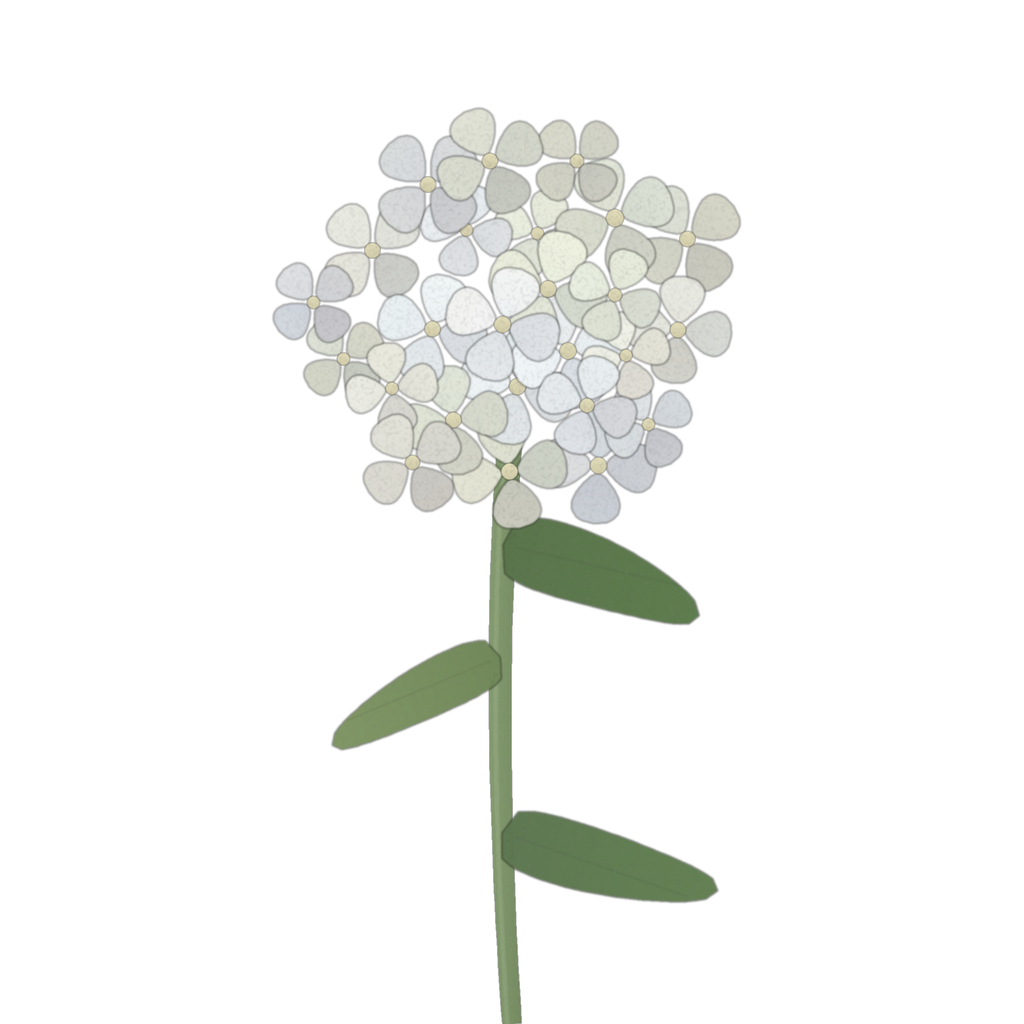
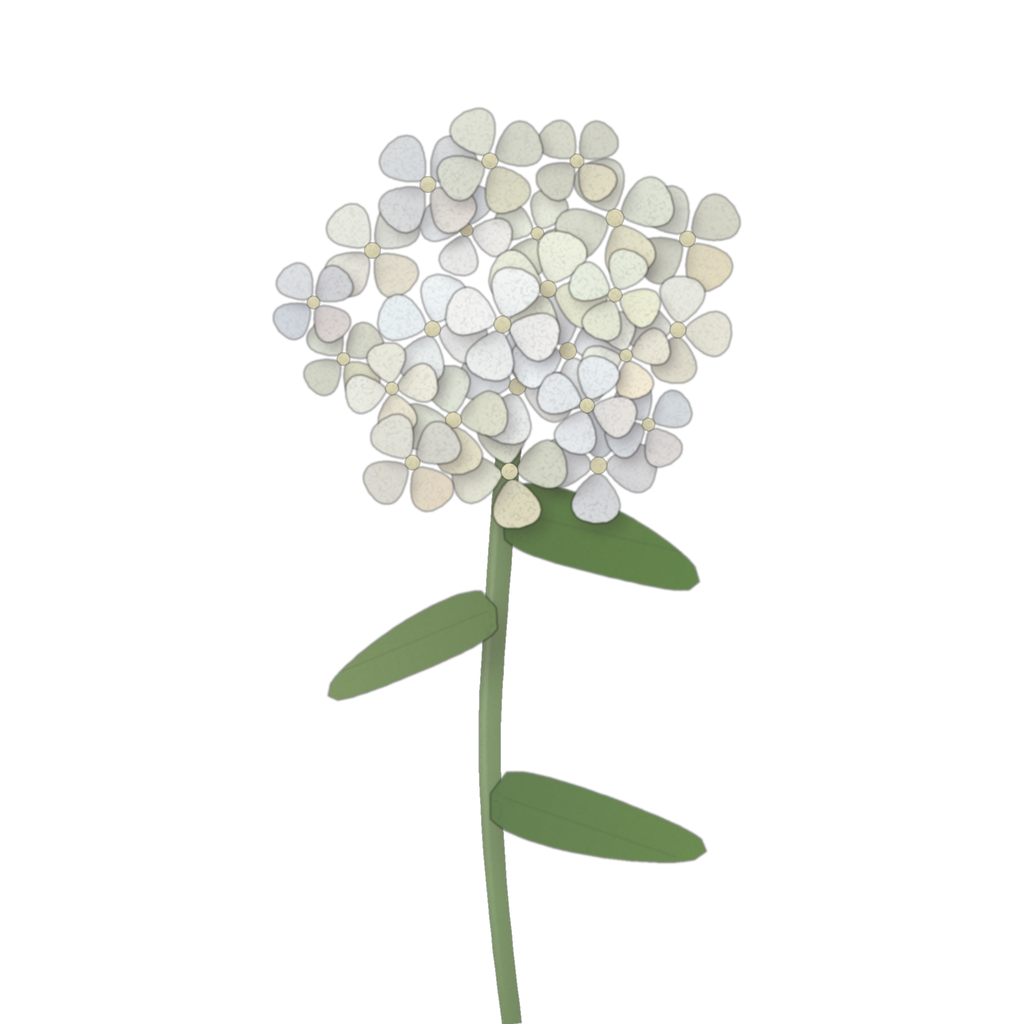
feat: 花びらの透過と重なりの接触影を実装し、茎に反りを与えた
描画は共通処理（paint.py）から直しました。21種すべてに一度に効きます。

■ 花びらの透過 ── 前の版は、ここが逆でした
  いままでの光は lit = cos(角度) だけで、明るさを ±0.1 動かしていました。
  つまり「光が当たっている」の表現で、「光が通っている」の表現がなかった。
  光に背を向けた花びらが、ただ暗くなっていました。実際は逆で、
  向こうから光が抜けて明るく、色が濃くなります。

  through_amount()  光をどれだけ通すか（0〜1）
  translucent()     明るくするのではなく、彩度を上げて暖色へ寄せる
                    （明るくするだけだと白っぽくなり、かえって薄く見える）

  ・先端ほど薄いので、先端ほど強く透ける
  ・光の向こう側の数枚だけ、縁がふっと光る（全部光らせると、また平らになる）
  ・葉は花びらより厚いので、透過を 0.45 に落とした

■ 重なりの接触影 ── 未実装だったもの
  これまで stamp() は単に上へ重ねるだけで、上の花びらが下に影を落として
  いませんでした。だから何枚重ねても「順番」にしか見えず「厚み」に見えない。
  水彩で奥行きを作っているのは花びらの形ではなく、接触部分の影です。

  contact_shadow()  置く直前に、下の層だけを暗くする（背景には落とさない）

  バラの重なりがいちばん変わりました。同心円から、層に見えるようになりました。

■ 茎 ── 「花がどう立っているか」
  まっすぐ立てるのをやめ、ゆるいS字に。下半分でひと方向、上半分で少し戻す。
  光の筋も、まっすぐ引かずに上下で細く消えるようにしました。
  花瓶に挿したとき、三本が別々の反り方をするようになりました。

  切り口（draw_cut_end）は書きましたが、花の絵には使いません。
  仕様では茎が画像の下端で切れる構図で、店でも花瓶の水に隠れるためです。
  「切られた花」を見せるなら、カウンターに残った切り落とし（仕事の痕跡）のほう。
  関数はそのとき使えるよう残してあります。

■ 品質基準を2本に分けた（⑮2章）
  棚（画面幅26%）  3秒で見つけられるか／見間違えないか／シルエットで分かるか
  一輪（画面高55%） あと10秒見ていたいか／目で追いたくなるか／光を感じるか／
                    触れてみたくなるか
  透過も接触影も棚では見えないので、片方の基準では測れません。

■ tools/compare_flowers.py を追加
  同じ構図・同じ倍率で、棚サイズと一輪サイズを並べて残すための道具。
  どの変更がどれだけ効いたかを、あとから比べられます。

  色温度は shade() にすでに実装済みだったので、やることから外しました。
  ゆらぎ・動きは、静止画が良くなるまでいったん止めます。

Claude-Session: https://claude.ai/code/session_01NKV57SwEiDA72EkGzXeu8N

diff --git a/tools/placeholder_art/paint.py b/tools/placeholder_art/paint.py
@@ -57,6 +57,86 @@ def lit_amount(angle: float) -> float:
     return math.cos(math.radians(angle - LIGHT_ANGLE))
 
 
+def through_amount(angle: float) -> float:
+    """
+    その向きが、どれだけ光を「通す」か（0〜1）。
+
+    人は花びらを見ているようで、実は光を見ている。
+    光を正面から受けた面より、**光に背を向けて透けている面**のほうが目を引く。
+
+    前の版はここが逆だった。lit（-1〜1）で明るさを上下させるだけだったので、
+    光の向こう側にある花びらが、ただ暗くなっていた。
+    実際の花では、向こうから光が抜けて、明るく・色が濃くなる。
+    """
+    return max(0.0, -lit_amount(angle)) ** 1.35
+
+
+def translucent(color: RGB, amount: float) -> RGB:
+    """
+    光が透けた花びらの色。
+
+    明るくするだけでは白っぽくなって、かえって薄く見える。
+    **彩度を上げながら、暖色へ寄せる。** 花びらは薄い膜で、
+    通った光がその色に染まって出てくるため。
+    """
+    if amount <= 0:
+        return color
+    r, g, b = color
+    mean = (r + g + b) / 3.0
+    # 彩度を上げる（平均から遠ざける）
+    k = 1.0 + 0.55 * amount
+    r = mean + (r - mean) * k
+    g = mean + (g - mean) * k
+    b = mean + (b - mean) * k
+    # 通ってきた光ぶん、わずかに暖色へ
+    warm = 26 * amount
+    return (max(0, min(255, int(r + warm))),
+            max(0, min(255, int(g + warm * 0.72))),
+            max(0, min(255, int(b + warm * 0.28))))
+
+
+def contact_shadow(layer: Image.Image, mask: Image.Image, x: int, y: int,
+                   angle: float, strength: float = 0.30) -> None:
+    """
+    重なりの、接触影。
+
+    これから置く花びらの影を、**すでに置いてある下の層に**落とす。
+    水彩画で奥行きを作っているのは花びらの形ではなく、この接触部分の影で、
+    これが無いと何枚重ねても「順番」にしか見えず「厚み」に見えない。
+
+    影は光と反対側（右下寄り）へ、ごくわずかにずらす。
+    """
+    if strength <= 0:
+        return
+    # 光と反対の向きへ、花びらの大きさに応じて少しだけ寄せる
+    span = max(mask.size) * 0.055 + 2.0
+    dx = int(round(math.sin(math.radians(LIGHT_ANGLE + 180)) * span))
+    dy = int(round(-math.cos(math.radians(LIGHT_ANGLE + 180)) * span))
+
+    blur = max(1.6, max(mask.size) * 0.045)
+    soft = mask.filter(ImageFilter.GaussianBlur(blur))
+    soft = soft.point(lambda v: int(v * strength))
+
+    # 影のぶんだけ、下の層を暗くする（アルファは触らない）
+    lw, lh = layer.size
+    sw, sh = soft.size
+    px, py = x + dx, y + dy
+    sx0, sy0 = max(0, -px), max(0, -py)
+    dx0, dy0 = max(0, px), max(0, py)
+    dx1, dy1 = min(lw, px + sw), min(lh, py + sh)
+    if dx1 <= dx0 or dy1 <= dy0:
+        return
+
+    box = (dx0, dy0, dx1, dy1)
+    region = layer.crop(box)
+    shadow_mask = soft.crop((sx0, sy0, sx0 + (dx1 - dx0), sy0 + (dy1 - dy0)))
+    # すでに何か描かれているところにだけ落とす（背景には落とさない）
+    shadow_mask = ImageChops.multiply(shadow_mask, region.getchannel("A"))
+    dark = Image.new("RGBA", region.size, (52, 40, 46, 255))
+    region.paste(dark, (0, 0), shadow_mask)
+    layer.paste(region, box)
+
+
 # --------------------------------------------------------------------------
 # 紙・にじみ
 # --------------------------------------------------------------------------
@@ -208,8 +288,14 @@ def tapered_band(path: Sequence[tuple[float, float]], w_start: float,
 def draw_petal(layer: Image.Image, center: tuple[float, float], angle: float,
                length: float, width: float, base: RGB, tip_color: RGB,
                rng: random.Random, tip: float = 0.55, waist: float = 0.62,
-               veins: bool = True, offset: float = 0.0, curl: float = 0.0) -> None:
-    """花びら1枚。angle は12時方向から時計回りの度数。"""
+               veins: bool = True, offset: float = 0.0, curl: float = 0.0,
+               translucency: float = 1.0, shadow: float = 0.30) -> None:
+    """
+    花びら1枚。angle は12時方向から時計回りの度数。
+
+    translucency  光の透けやすさ。厚い花びら（バラの芯など）は下げる。
+    shadow        下の層に落とす接触影の濃さ。0 で落とさない。
+    """
     ox = center[0] + math.sin(math.radians(angle)) * offset
     oy = center[1] - math.cos(math.radians(angle)) * offset
 
@@ -224,11 +310,28 @@ def draw_petal(layer: Image.Image, center: tuple[float, float], angle: float,
     ImageDraw.Draw(mask).polygon(shape, fill=255)
 
     lit = lit_amount(angle)
+    through = through_amount(angle) * translucency
+
     base_c = shade(jitter(base, rng, 5), -0.05 + 0.09 * lit)
     tip_c = shade(jitter(tip_color, rng, 7), 0.04 + 0.13 * lit)
+
+    if through > 0.02:
+        # 光が抜けている花びら。暗くするのではなく、色を濃く・暖かくする。
+        # 先のほうが薄いので、先端ほど強く透ける。
+        base_c = translucent(base_c, through * 0.45)
+        tip_c = translucent(tip_c, through)
+
     grad = linear_gradient(size, tip_c, base_c).rotate(-angle, Image.BILINEAR)
 
     local = _fill_local(size, mask, grad, rng.randint(0, 99999), 2.0, 0.24)
+
+    if through > 0.25 and length > 20:
+        # 縁だけが、ふっと光る。全部の花びらではなく、光の向こう側の数枚だけ。
+        edge = mask.filter(ImageFilter.GaussianBlur(max(1.2, width * 0.10)))
+        edge = ImageChops.subtract(edge, mask.point(lambda v: 255 if v > 200 else 0))
+        edge = edge.point(lambda v: int(v * (through - 0.25) * 1.5))
+        local.paste(Image.new("RGB", size, translucent(tip_c, 1.0)), (0, 0),
+                    ImageChops.multiply(edge, mask))
 
     if veins and length > 24:
         vein = Image.new("L", size, 0)
@@ -246,6 +349,8 @@ def draw_petal(layer: Image.Image, center: tuple[float, float], angle: float,
                                    mask.point(lambda v: 255 if v > 110 else 0))
         local.paste(Image.new("RGB", size, shade(base, -0.34)), (0, 0), vein)
 
+    # 置く前に、下の層へ影を落とす。これが重なりの厚みになる。
+    contact_shadow(layer, mask, int(ox - r), int(oy - r), angle, shadow)
     stamp(layer, local, int(ox - r), int(oy - r))
 
 
@@ -253,9 +358,11 @@ def draw_leaf(layer: Image.Image, center: tuple[float, float], angle: float,
               length: float, width: float, color: RGB, rng: random.Random,
               tip: float = 0.42, curl: float = 0.0) -> None:
     lit = lit_amount(angle)
+    # 葉は花びらより厚い。透けにくく、影はしっかり落ちる。
     draw_petal(layer, center, angle, length, width,
                shade(color, -0.15 + 0.10 * lit), shade(color, 0.09 + 0.12 * lit),
-               rng, tip=tip, waist=0.55, veins=True, curl=curl)
+               rng, tip=tip, waist=0.55, veins=True, curl=curl,
+               translucency=0.45, shadow=0.34)
 
 
 def draw_blob(layer: Image.Image, center: tuple[float, float], rx: float, ry: float,
@@ -292,12 +399,59 @@ def draw_stem(layer: Image.Image, path: Sequence[tuple[float, float]],
     grad = linear_gradient(size, shade(color, 0.16), shade(color, -0.2), horizontal=True)
     local = _fill_local(size, mask, grad, rng.randint(0, 99999), 1.0, 0.2)
 
+    # 光の当たる筋。まっすぐ引かず、上下で細く消える。
+    # 人は花だけでなく「花がどう立っているか」を見ている。
+    # 茎が一本の棒に見えると、そこで生命感が止まる。
     hi = Image.new("L", size, 0)
-    ImageDraw.Draw(hi).line([(x - w_top * 0.24, y) for x, y in local_path],
-                            fill=64, width=max(1, int(w_top * 0.24)))
-    hi = ImageChops.multiply(hi.filter(ImageFilter.GaussianBlur(1.4)), mask)
+    hd = ImageDraw.Draw(hi)
+    n = len(local_path)
+    for i in range(n - 1):
+        t = i / max(1, n - 1)
+        # 端に近いほど薄く（真ん中がいちばん光る）
+        fade = math.sin(math.pi * min(1.0, max(0.0, t))) ** 0.7
+        if fade <= 0.02:
+            continue
+        w_here = w_top + (w_bottom - w_top) * t
+        off = -w_here * 0.26
+        hd.line([(local_path[i][0] + off, local_path[i][1]),
+                 (local_path[i + 1][0] + off, local_path[i + 1][1])],
+                fill=int(78 * fade), width=max(1, int(w_here * 0.22)))
+    hi = ImageChops.multiply(hi.filter(ImageFilter.GaussianBlur(1.6)), mask)
     local.paste(Image.new("RGB", size, shade(color, 0.45)), (0, 0), hi)
     stamp(layer, local, x0, y0)
+
+
+def draw_cut_end(layer: Image.Image, point: tuple[float, float], width: float,
+                 color: RGB, rng: random.Random) -> None:
+    """
+    切り口。
+
+    **花屋の花は、切られている。** そこだけ色が抜けて、水を吸った跡がある。
+
+    ただし花の絵には描かない。仕様では茎が画像の下端で切れる構図で、
+    店でも花瓶の水に隠れてしまうため。これはカウンターに残った
+    切り落とし（＝仕事の痕跡）を描くときに使う。
+    """
+    rx = width * 0.62
+    ry = max(1.5, width * 0.30)
+    r = int(max(rx, ry)) + 5
+    size = (2 * r, 2 * r)
+
+    mask = Image.new("L", size, 0)
+    ImageDraw.Draw(mask).ellipse([r - rx, r - ry, r + rx, r + ry], fill=255)
+
+    # 切り口は、茎より白っぽく、少しだけ黄みがかる
+    face = mix(color, (246, 240, 216), 0.62)
+    local = _fill_local(size, mask, face, rng.randint(0, 99999), 0.9, 0.18)
+
+    # 縁だけ、もとの茎の色が残る
+    rim = Image.new("L", size, 0)
+    ImageDraw.Draw(rim).ellipse([r - rx, r - ry, r + rx, r + ry],
+                                outline=120, width=max(1, int(ry * 0.5)))
+    rim = ImageChops.multiply(rim.filter(ImageFilter.GaussianBlur(0.8)), mask)
+    local.paste(Image.new("RGB", size, shade(color, -0.12)), (0, 0), rim)
+
+    stamp(layer, local, int(point[0] - r), int(point[1] - r))
 
 
 def drop_shadow(layer: Image.Image, blur: float = 13, offset: tuple[int, int] = (9, 13),

diff --git a/tools/compare_flowers.py b/tools/compare_flowers.py
@@ -1,0 +1,68 @@
+"""
+花の絵を、同じ構図・同じ倍率で並べて残すための道具。
+
+描画ルールを変えるたびに、これで撮って `--out` に残す。
+「どの変更が、どれだけ効いたのか」をあとから並べて確かめるための資料になる。
+
+  python3 tools/compare_flowers.py --out /tmp/before
+  （paint.py を直す）
+  python3 tools/compare_flowers.py --out /tmp/after
+
+一輪画面（画面高の55%）で見たときの大きさに合わせて出す。
+"""
+from __future__ import annotations
+
+import argparse
+import os
+
+from PIL import Image
+
+from placeholder_art.flowers import RECIPES, render_flower
+
+# 形のちがう代表。まるい／重なり／カップ／フリル／線／こまかい／葉。
+SAMPLES = [
+    'sunflower',      # まるい・平ら
+    'rose',           # 重なりが深い
+    'tulip',          # カップ
+    'lisianthus',     # フリル
+    'delphinium',     # 線・穂
+    'gypsophila',     # こまかい
+    'eucalyptus',     # 葉
+]
+
+# 一輪画面での見え方に近い高さ（430x932 の 55% を 2倍解像度で）
+DETAIL_H = 1024
+# 棚での見え方（画面幅の26%程度）
+SHELF_H = 260
+
+
+def main() -> None:
+    ap = argparse.ArgumentParser()
+    ap.add_argument('--out', required=True)
+    ap.add_argument('--ids', nargs='*', default=SAMPLES)
+    args = ap.parse_args()
+    os.makedirs(args.out, exist_ok=True)
+
+    for fid in args.ids:
+        recipe = RECIPES[fid]
+        img = render_flower(recipe, seed=7)
+
+        # 一輪画面ぶん
+        detail = img.resize(
+            (round(img.width * DETAIL_H / img.height), DETAIL_H), Image.LANCZOS)
+        on_paper = Image.new('RGB', detail.size, (243, 236, 222))
+        on_paper.paste(detail, (0, 0), detail)
+        on_paper.save(os.path.join(args.out, f'{fid}-detail.png'))
+
+        # 棚ぶん（シルエットで見分けられるかを見る）
+        shelf = img.resize(
+            (round(img.width * SHELF_H / img.height), SHELF_H), Image.LANCZOS)
+        card = Image.new('RGB', shelf.size, (243, 236, 222))
+        card.paste(shelf, (0, 0), shelf)
+        card.save(os.path.join(args.out, f'{fid}-shelf.png'))
+
+    print(f'{len(args.ids)} 種を {args.out} に出しました')
+
+
+if __name__ == '__main__':
+    main()

diff --git a/tools/placeholder_art/flowers.py b/tools/placeholder_art/flowers.py
@@ -549,12 +549,24 @@ def render_flower(recipe: Recipe, seed: int = 0, scale: float = 1.0,
     bx = (base_x if base_x is not None else size[0] / 2) * SS
     r = recipe.head_r * SS * scale
     stem_col = jitter(hex_rgb(recipe.stem), rng, 5)
-    lean = recipe.lean * rng.uniform(0.4, 1.4) * rng.choice((-1, 1)) * SS
+    lean = recipe.lean * rng.uniform(0.6, 1.6) * rng.choice((-1, 1)) * SS
 
-    # 茎（下端から花の中心へ、ゆるやかに反る）
-    path = bezier((bx, h), (bx + lean * 2.2, (h + cy) / 2), (cx, cy + r * 0.42), 46)
+    # 茎。まっすぐには立てない。
+    # 切り花はどれも少し反っていて、その反りが「どう立っているか」を作る。
+    # 下半分でひと方向へ、上半分でわずかに戻す（ゆるいS）。
+    mid_y = (h + cy) / 2
+    lower = bezier((bx, h), (bx + lean * 2.4, mid_y + (h - mid_y) * 0.35),
+                   (bx + lean * 1.6, mid_y), 24)
+    upper = bezier((bx + lean * 1.6, mid_y), (bx + lean * 0.7, (mid_y + cy) / 2),
+                   (cx, cy + r * 0.42), 26)
+    path = lower + upper[1:]
     draw_stem(layer, path, recipe.stem_w[0] * SS * scale, recipe.stem_w[1] * SS * scale,
               stem_col, rng)
+
+    # ここに切り口は描かない。
+    # 仕様では茎は画像の下端で切れる構図（IMAGE_ASSETS.md §1）なので、
+    # 切り口を置いても半分が画面外になり、店では花瓶の水に隠れてしまう。
+    # 「切られた花」を見せるなら、カウンターに残った切り落とし（仕事の痕跡）のほう。
 
     if recipe.leaves and recipe.leaf_style != "none":
         _draw_leaves(layer, recipe, path, rng, scale)

diff --git a/design/15-build-order.md b/design/15-build-order.md
@@ -128,16 +128,55 @@
 ラナンキュラス 重なり・春・よしこさん
 ```
 
-**終わったかの確かめ方**
-
-```
-□ 一輪だけ画面に出して、10秒見ていられるか
-□ 花びらの重なりが見えるか
-□ 光が当たっている側と、影の側が分かるか
-□ 「これ、きれいだな」と声が出るか
-```
-
 **この10種で、⑬の呼応セリフが全部成立します。** だから遊びとしても足ります。
+
+> **10種は目標ではなく、確かめるための標本です。**
+> 10種を完成させることが目的ではなく、描画のやり方が正しいことを
+> 確かめるために磨きます。正しければ、残りの花にも同じ品質が自然に広がります。
+
+### 品質基準は、2本に分けます
+
+プレイヤーは同じ花を、まったく違う大きさで2回見ます。  
+**棚では「見つけてもらう花」、一輪画面では「好きになってもらう花」。**  
+役割が違うので、基準も別にします。
+
+| 棚（画面幅の26%） | 一輪（画面高の55%） |
+|---|---|
+| □ 3秒で見つけられるか | □ あと10秒、見ていたいか |
+| □ 他の花と見間違えないか | □ 花びらを目で追いたくなるか |
+| □ シルエットだけで種類が分かるか | □ 光を感じられるか |
+| | □ 触れてみたくなるか |
+
+**透過も接触影も、棚では一切見えません。** だから片方の基準では測れません。
+
+### 描画で手を入れる順番
+
+```
+1.  花びらの透過        共通処理。21種すべてに一度に効く
+2.  重なりの接触影      共通処理。奥行きはここで出る
+3.  茎                  「花がどう立っているか」。生命感に直結
+4.  棚でのシルエット     別の基準。軽い割に効く
+5.  葉
+--  色温度              すでに実装済み（shade が光側を暖色、影側を青紫へ）
+--  ゆらぎ・動き        静止画が良くなるまで、いったん止める
+```
+
+**1と2は、花を1種も描き直さずに全部の花が変わります。**  
+代表10種を個別に磨くのは、その後です。
+
+**「ゆらぎ・動き」を止める理由**: 動きは絵を良くするものではなく、
+良い絵を引き立てるものです。弱い静止画に動きを付けると一時的に良く見えて、
+**本当に直すべきところが分からなくなります。**
+
+### 変えるたびに、並べて残す
+
+```
+python3 tools/compare_flowers.py --out <残す場所>
+```
+
+同じ構図・同じ倍率で、棚サイズと一輪サイズの両方を出します。  
+**どの変更がどれだけ効いたのかを、あとから並べて確かめられます。**  
+記録であると同時に、このゲームの描画ルールを育てる資料になります。
 
 ### ③ UIを、それに合わせる
 
